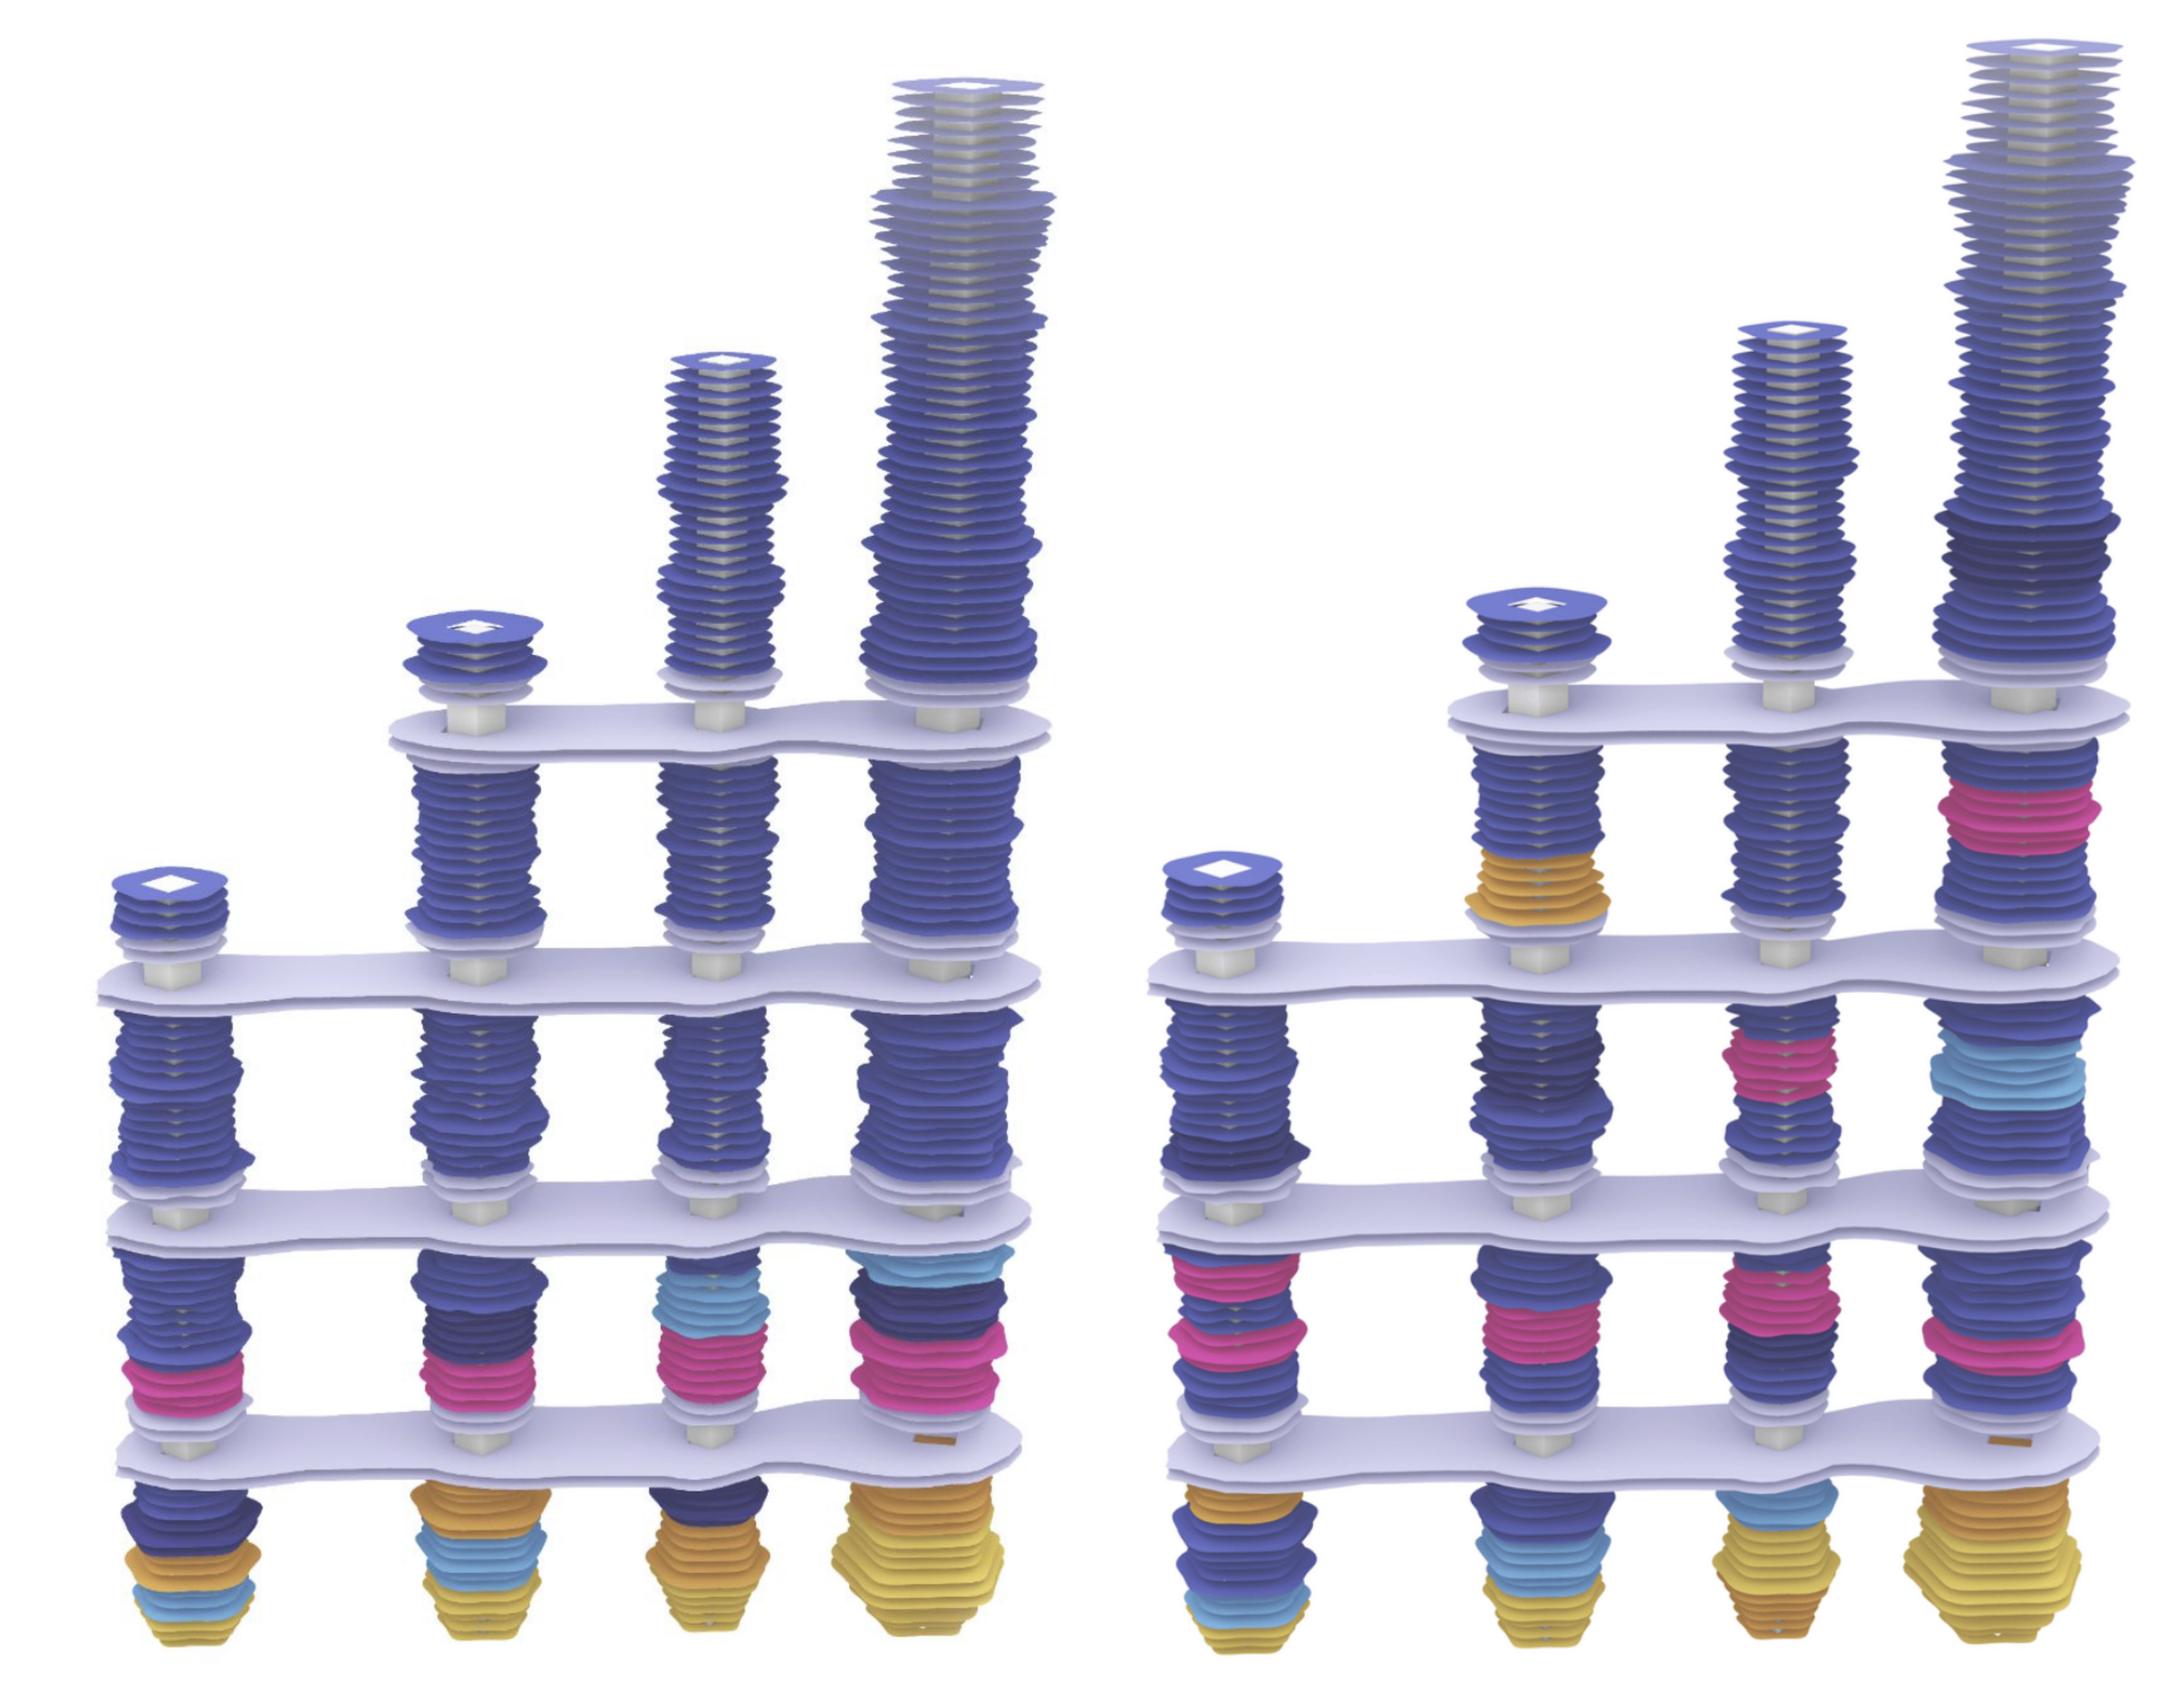
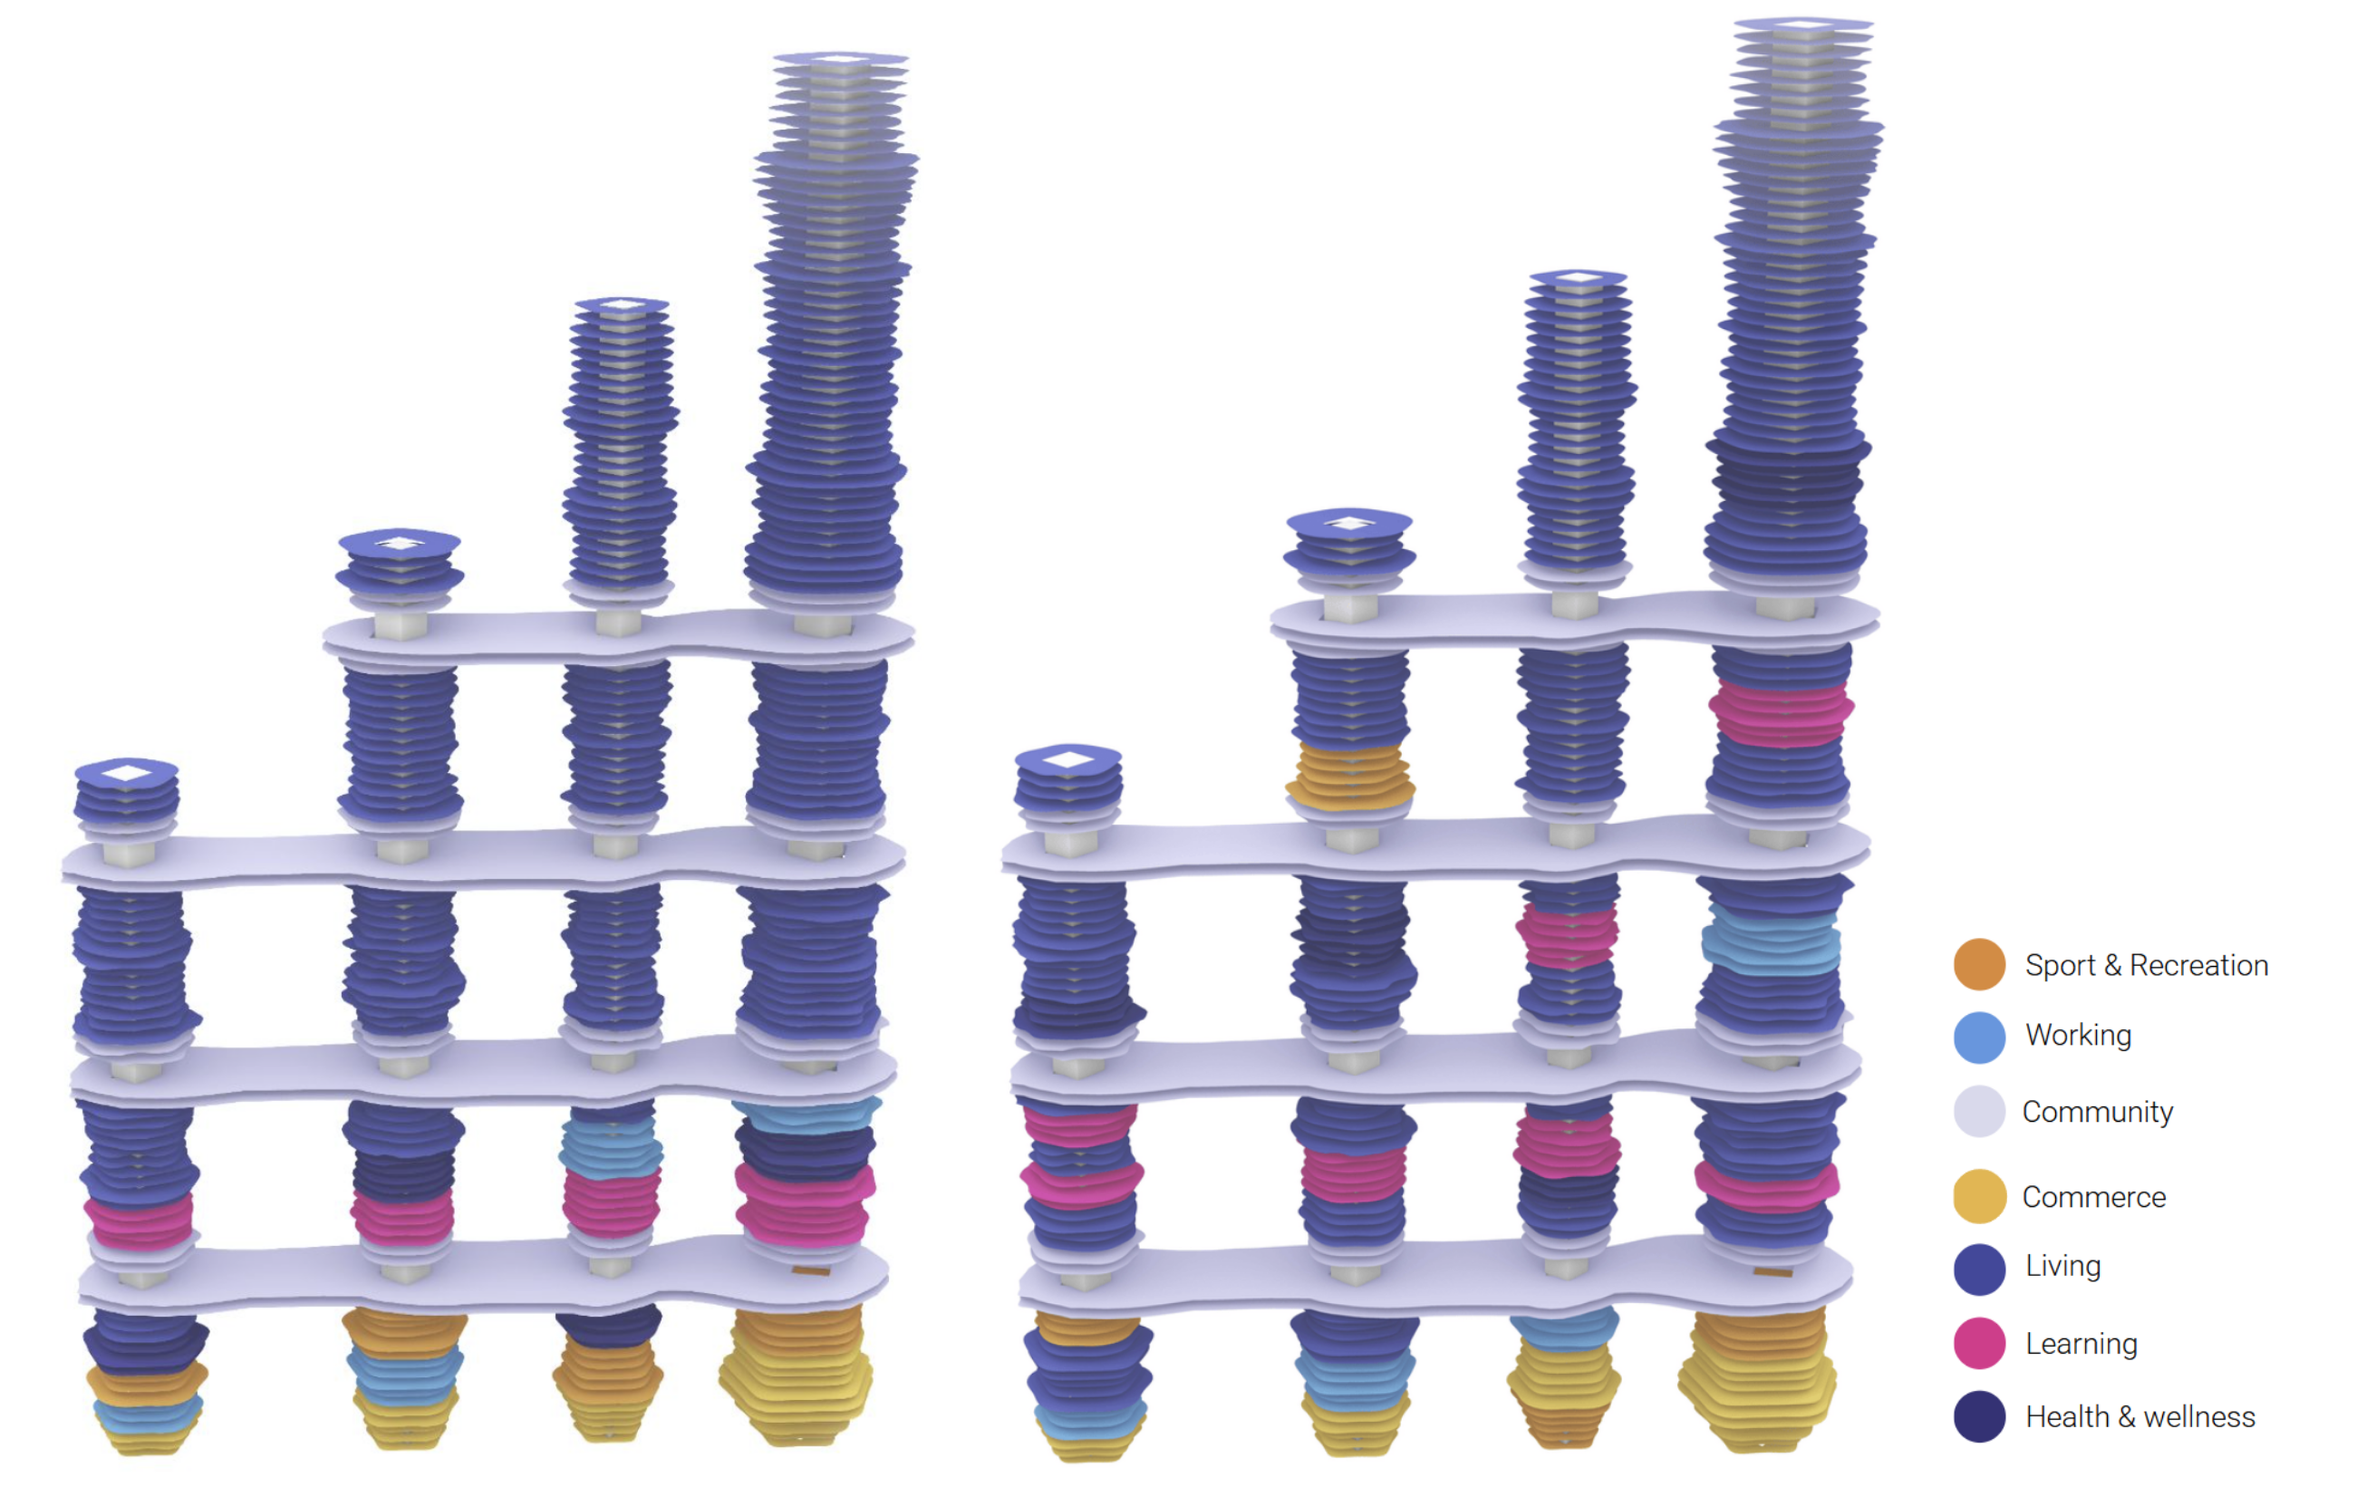
Add elbow connectors to FlowDiagram, reorder hyperbuilding's sections
FlowDiagram gains two primitives beyond its straight arrows: a `curves`
entry draws a chamfered 90° connector between two arbitrary node edges,
measured off the actual rendered boxes so it stays attached across
reflows, and an arrow's `colSpan` lets it skip past an intervening stage
instead of stopping at the next column. Used on hyperbuilding's workflow
diagram to route View Analysis's feedback into Floor Ranges. Also
reorders the project's sections (massing before workflow) and compresses
two oversized drawings.

diff --git a/src/components/project/FlowDiagram.jsx b/src/components/project/FlowDiagram.jsx
@@ -2,7 +2,15 @@
    on the same grid as the original sheet: nodes sit at explicit (col, row)
    positions and arrows occupy the gaps between them, so branches and the
    feedback loop read exactly as drawn. Below `sm` the grid cannot survive, so
-   the same nodes stack in reading order. */
+   the same nodes stack in reading order.
+
+   Straight arrows cover the common case — adjacent cells, same row or column.
+   A `curves` entry is for the rest: a connector between two arbitrary node
+   edges (a skip-ahead merge, a feedback loop back into an earlier stage).
+   Those are measured in actual pixels off the rendered nodes, so they stay
+   correct across reflows rather than being hand-plotted in grid units. */
+
+import { useLayoutEffect, useRef, useState } from 'react'
 
 function Head({ dir }) {
   const base = 'block h-0 w-0 border-solid'
@@ -98,6 +106,116 @@ function Node({ node }) {
    the n-1 gaps between them. */
 const track = (col, span = 1) => (span > 1 ? `${col * 2 - 1} / span ${span * 2 - 1}` : col * 2 - 1)
 
+// Direction of travel on arrival at each side, as a unit vector — so an
+// arrowhead built from it points the way the line is actually moving, and a
+// line shortened along it stops flush with the tip rather than past it.
+const SIDE_ENTRY = { top: [0, 1], bottom: [0, -1], left: [1, 0], right: [-1, 0] }
+
+function anchor(rect, containerRect, side) {
+  const x = rect.left - containerRect.left
+  const y = rect.top - containerRect.top
+  if (side === 'top') return { x: x + rect.width / 2, y }
+  if (side === 'bottom') return { x: x + rect.width / 2, y: y + rect.height }
+  if (side === 'left') return { x, y: y + rect.height / 2 }
+  return { x: x + rect.width, y: y + rect.height / 2 }
+}
+
+const clamp = (v, lo, hi) => Math.max(lo, Math.min(hi, v))
+const isVertical = (side) => side === 'top' || side === 'bottom'
+
+/* Elbow connectors between two node edges — a branch that skips a stage, a
+   feedback loop — measured off the actual rendered boxes rather than plotted
+   in grid units, so they stay attached as the layout reflows. Drawn as a
+   single 90° bend with a chamfered corner, matching the straight-line
+   language the rest of the diagram already uses rather than a soft curve. */
+function Curves({ containerRef, nodeRefs, curves }) {
+  const [paths, setPaths] = useState([])
+
+  useLayoutEffect(() => {
+    if (!curves?.length) return undefined
+
+    const measure = () => {
+      const containerRect = containerRef.current?.getBoundingClientRect()
+      if (!containerRect) return
+      const next = curves.map((c) => {
+        const fromEl = nodeRefs.current.get(`${c.from.col}-${c.from.row}`)
+        const toEl = nodeRefs.current.get(`${c.to.col}-${c.to.row}`)
+        if (!fromEl || !toEl) return null
+
+        const start = anchor(fromEl.getBoundingClientRect(), containerRect, c.from.side)
+        const end = anchor(toEl.getBoundingClientRect(), containerRect, c.to.side)
+        const [tx, ty] = SIDE_ENTRY[c.to.side]
+
+        // The bend sits at the point that keeps the line straight off both
+        // node edges: level with the far point on the axis the line leaves
+        // on, in line with it on the axis it arrives on.
+        const corner = isVertical(c.from.side) ? { x: start.x, y: end.y } : { x: end.x, y: start.y }
+        const r = clamp(Math.min(Math.abs(corner.x - start.x) || Infinity, Math.abs(corner.y - start.y) || Infinity, Math.abs(end.x - corner.x) || Infinity, Math.abs(end.y - corner.y) || Infinity) * 0.6, 6, 16)
+
+        const preCorner = isVertical(c.from.side)
+          ? { x: corner.x, y: corner.y - Math.sign(corner.y - start.y || 1) * r }
+          : { x: corner.x - Math.sign(corner.x - start.x || 1) * r, y: corner.y }
+        const postCorner = isVertical(c.from.side)
+          ? { x: corner.x + Math.sign(end.x - corner.x || 1) * r, y: corner.y }
+          : { x: corner.x, y: corner.y + Math.sign(end.y - corner.y || 1) * r }
+
+        // Stop the line short of the tip, behind the arrowhead's base, so the
+        // head sits flush against the node from the outside rather than
+        // poking into it.
+        const headLen = 9
+        const lineEnd = { x: end.x - tx * headLen, y: end.y - ty * headLen }
+
+        const angle = (Math.atan2(-ty, -tx) * 180) / Math.PI + 180
+        return {
+          key: `${c.from.col}-${c.from.row}-${c.to.col}-${c.to.row}`,
+          d: `M ${start.x} ${start.y} L ${preCorner.x} ${preCorner.y} Q ${corner.x} ${corner.y} ${postCorner.x} ${postCorner.y} L ${lineEnd.x} ${lineEnd.y}`,
+          tip: end,
+          angle,
+        }
+      })
+      setPaths(next.filter(Boolean))
+    }
+
+    measure()
+    const observer = new ResizeObserver(measure)
+    if (containerRef.current) observer.observe(containerRef.current)
+    window.addEventListener('resize', measure)
+    /* A section starting collapsed measures at zero — the diagram's own box
+       doesn't resize when an ancestor Collapsible opens, only its clipping
+       does, so the ResizeObserver above never fires for it. Its
+       grid-template-rows transition ending is the signal that the real
+       layout is ready to read. */
+    window.addEventListener('transitionend', measure)
+    return () => {
+      observer.disconnect()
+      window.removeEventListener('resize', measure)
+      window.removeEventListener('transitionend', measure)
+    }
+  }, [containerRef, nodeRefs, curves])
+
+  if (!paths.length) return null
+
+  return (
+    <svg
+      aria-hidden="true"
+      className="pointer-events-none absolute inset-0 h-full w-full overflow-visible text-accent-mark"
+    >
+      {paths.map((p) => (
+        <g key={p.key}>
+          <path d={p.d} fill="none" stroke="currentColor" strokeWidth={2} strokeLinecap="round" />
+          {/* Tip at the local origin, base trailing behind it, so translating
+              to the node edge puts the point there — not the flat end. */}
+          <polygon
+            points="-9,-5 0,0 -9,5"
+            fill="currentColor"
+            transform={`translate(${p.tip.x} ${p.tip.y}) rotate(${p.angle})`}
+          />
+        </g>
+      ))}
+    </svg>
+  )
+}
+
 export default function FlowDiagram({
   columns = 3,
   rows = 4,
@@ -105,7 +223,11 @@ export default function FlowDiagram({
   arrows = [],
   groups = [],
   notes = [],
+  curves = [],
 }) {
+  const containerRef = useRef(null)
+  const nodeRefs = useRef(new Map())
+
   if (!nodes?.length) return null
 
   // logical col c -> grid column 2c-1; the gap after it -> 2c. Same for rows.
@@ -121,7 +243,8 @@ export default function FlowDiagram({
   return (
     <div>
       <div
-        className="hidden sm:grid"
+        ref={containerRef}
+        className="relative hidden sm:grid"
         style={{ gridTemplateColumns: gridCols, gridTemplateRows: gridRows }}
       >
         {/* Drawn first and inset negatively so the dotted outline sits behind
@@ -137,6 +260,10 @@ export default function FlowDiagram({
         {nodes.map((node) => (
           <div
             key={`${node.col}-${node.row}-${node.label}`}
+            ref={(el) => {
+              if (el) nodeRefs.current.set(`${node.col}-${node.row}`, el)
+              else nodeRefs.current.delete(`${node.col}-${node.row}`)
+            }}
             className="relative"
             style={{
               gridColumn: node.col * 2 - 1,
@@ -150,13 +277,19 @@ export default function FlowDiagram({
             <Node node={node} />
           </div>
         ))}
+        <Curves containerRef={containerRef} nodeRefs={nodeRefs} curves={curves} />
         {arrows.map((a) => (
           <div
             key={`${a.col}-${a.row}-${a.dir}-${a.rowSpan ?? 1}`}
             style={
               a.dir === 'right'
                 ? {
-                    gridColumn: a.col * 2,
+                    /* colSpan carries the line straight past an intervening
+                       stage — a branch that skips a step everyone else on its
+                       row goes through — rather than stopping at the next gap. */
+                    gridColumn: a.colSpan
+                      ? `${a.col * 2} / span ${a.colSpan * 2 - 1}`
+                      : a.col * 2,
                     /* Spanning the same rows as the stages it joins puts the
                        arrowhead on their shared midline, not on one input's. */
                     gridRow: a.rowSpan
